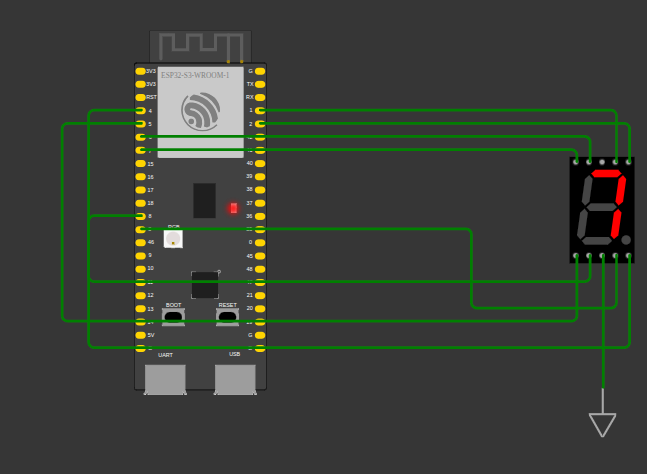
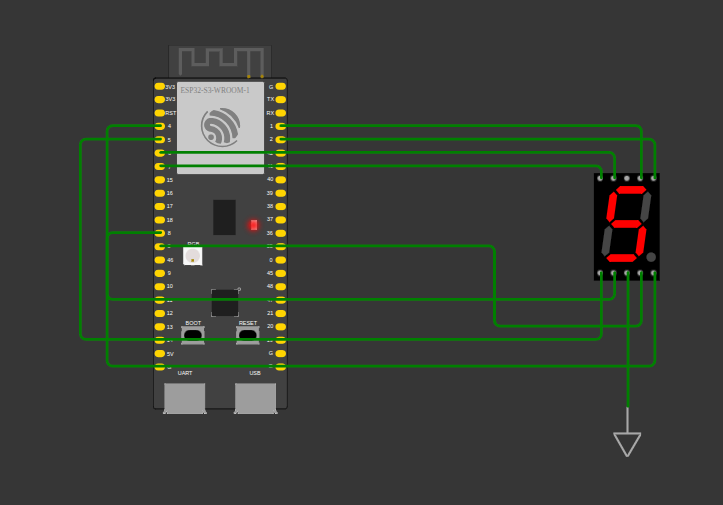
added 7-seg pr

Changed region(s): [[0.0927, 0.0591, 0.9892, 0.9156]]

diff --git a/README.md b/README.md
@@ -23,6 +23,16 @@ A collection of small programs wirtten for esp32 mcirocontrollers primarily the 
 </div>
 
 <div align="center">
+  <h2><a href="projects/7-seg-disp">Blinkers</a></h2>
+
+  <img src="./res/7-seg-disp.png" alt="7-seg-disp wokwi simulation" width="50%">
+  <p>
+    <i>A program displaying numbers 0 through 9 on a seven segment display</i>
+  </p>
+
+</div>
+
+<div align="center">
   <h2><a href="projects/lcd_cursor">LCD Cursor</a></h2>
 
   <img src="./res/lcd_cursor.png" alt="lcd_cursor wokwi simulation" width="50%">
